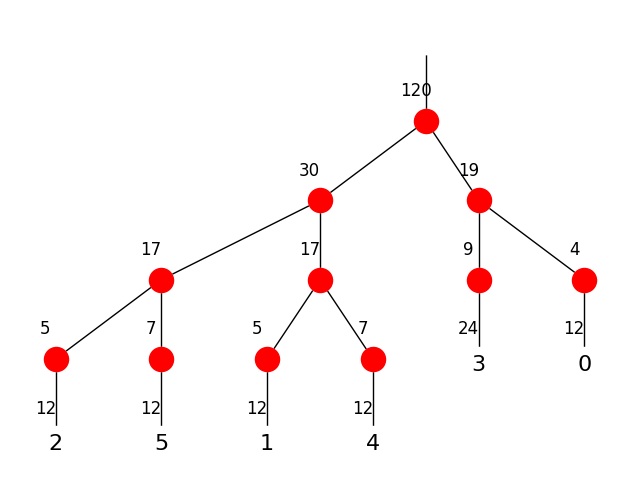
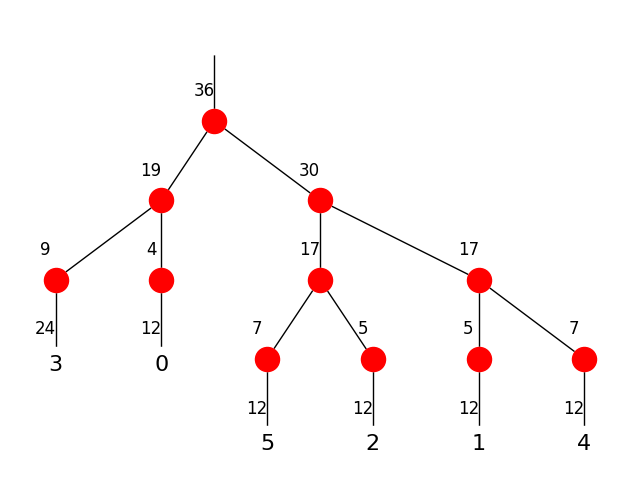
all default files are organized in different folders; file path given to mctdh; bug in self._mctdhConfig

diff --git a/GUI/widgetA.py b/GUI/widgetA.py
@@ -27,13 +27,15 @@ class WidgetA(base, form):
 #        self.getInput()
 
 
-        self._tree = Tree("36")  #Delegation instead of inheritance of Tree
-        self._treeData = self._tree._treeData
+        self._tree = None
+#        self._tree = Tree("36")  #Delegation instead of inheritance of Tree
+#        self._treeData = self._tree._treeData
 
         self._dictHamil = {'CH3': '194', 'NO3': '195'}
         self._dictPES = {'CH3': '100', 'NO3': '101'}
         self._mctdhConfig = 'mctdh.config'
         self._sysTreeFile = 'CH3g1.txt'
+        self._inputFile = 'example.in'
 
         self._startingPath = None
         self._ProjectName = None
@@ -72,15 +74,6 @@ class WidgetA(base, form):
         self.fluxEigenstateRadio.toggled.connect(self.setJob4)
 
 
-        ####TreeView########
-        self.modelTree = SceneGraphModel(self._tree._rootNode0)
-        self.uiTree.setModel(self.modelTree)
-        self.uiTree.expandAll()
-        self.uiTree.resizeColumnToContents(0)
-        self.uiTree.resizeColumnToContents(1)
-#        my_index = self.modelTree.index(0, 0, QtCore.QModelIndex())
-        self.uiTree.clicked.connect(self.changeNode)
-
 
         ####QGraphicsView###
 #        pixmap = QtGui.QPixmap('nx_test.png')
@@ -102,7 +95,18 @@ class WidgetA(base, form):
     def getInput(self, key):
         ###get Attributes#######
         inputFile = self._HamiltonianDir + '/' + key + '/' + 'example.in' 
+        self._inputFile = inputFile
+        
+        filenames = os.walk(self._HamiltonianDir+'/'+str(key)).next()[2]
+        for val in filenames:
+            if 'txt' in val:
+                self._sysTreeFile = val
     
+        self._mctdhConfig = self._HamiltonianDir + '/' + key + '/' + self._mctdhConfig
+        self._sysTreeFile  = self._HamiltonianDir + '/' + key + '/' + self._sysTreeFile
+#        print self._mctdhConfig
+#        print self._sysTreeFile
+
         inobj = InPut(inputFile) #complete path?
         paradict = inobj._paradict
 
@@ -186,22 +190,26 @@ class WidgetA(base, form):
 
     def managefolder(self):
         import os, shutil
-        print self._ProjectName
+#        print self._ProjectName
         os.chdir(self._startingPath+"/"+self._ProjectName) 
-        print os.getcwd()   
+#        print os.getcwd()   
         try:
             shutil.rmtree("tmp") #removes folder
         except Exception:
             pass
         os.makedirs("tmp")
         os.chdir("./tmp")
-        scr_mctdhConfig = self._startingPath + '/' + self._mctdhConfig
-        scr_sysTree = self._startingPath + '/' + self._sysTreeFile
-        print scr_mctdhConfig, scr_sysTree 
-        scr_example = self._startingPath + '/' + 'example.in'
-        shutil.copy2(scr_mctdhConfig, str(os.getcwd()))
-        shutil.copy2(scr_sysTree, str(os.getcwd()))
-        shutil.copy2(scr_example, str(os.getcwd()))
+        #scr_mctdhConfig = self._startingPath + '/' + self._mctdhConfig
+        #scr_sysTree = self._startingPath + '/' + self._sysTreeFile
+        #print scr_mctdhConfig, scr_sysTree 
+        #scr_example = self._startingPath + '/' + 'example.in'
+        shutil.copy2(self._mctdhConfig, str(os.getcwd()))
+        shutil.copy2(self._sysTreeFile, str(os.getcwd()))
+        shutil.copy2(self._inputFile, str(os.getcwd())) #!!!!!!!!!
+
+        #shutil.copy2(scr_mctdhConfig, str(os.getcwd()))
+        #shutil.copy2(scr_sysTree, str(os.getcwd()))
+        #shutil.copy2(scr_example, str(os.getcwd()))
 
     def changeNode(self, my_index):
         if self._SessionName == None:
@@ -209,7 +217,7 @@ class WidgetA(base, form):
         else:
             self.managefolder()
 
-            self.ModelTree = ModelTree()
+            self.ModelTree = ModelTree(self._mctdhConfig, self._sysTreeFile)
             topNode = self.modelTree.getNode2(my_index).child(0) #modelTree from SceneGraphModel
             self._tree.setRootNode(topNode)
 
@@ -217,7 +225,7 @@ class WidgetA(base, form):
             self.output()
 
             ####Pic with MCTDH Code and Networkx####
-            self.ModelTree = ModelTree()
+            self.ModelTree = ModelTree(self._mctdhConfig, self._sysTreeFile)
             self.LogicalNodes = LogicalNodes(self.ModelTree.lay_matr_mode) #object
             self.View = View(self.ModelTree.label_mode, self.ModelTree.nodes_spf) #object
             self.View.Display(self.LogicalNodes.G) #View method Display() generated .png file
@@ -237,7 +245,7 @@ class WidgetA(base, form):
 #        print self._ProjectName
         scr = str(os.getcwd()) + "/tmp"
         dest = self._startingPath+ "/" + self._ProjectName + "/" + str(self._SessionName)
-        print scr, dest
+        #print scr, dest
         try:
             shutil.rmtree(dest) #removes folder
         except Exception:
@@ -248,11 +256,10 @@ class WidgetA(base, form):
     def saveProject(self):
         if self._SessionName == None:
                 self.showdialog()
-                sys.exit()
         else:
             root, directories, filenames = os.walk(".").next()
             if self._SessionName in directories:
-                print "overwrite stuff?"
+                #print "overwrite stuff?"
                 self.showdialog2()
                 if 'Yes' in self._messagebut:
                     self.managefolder()
@@ -324,20 +331,30 @@ class WidgetA(base, form):
 
 
     def on_item_select1(self, item):
-        key = item.data().toString()
+        key = str(item.data().toString())
         self.getInput(key)
         self._hamiltonian = self._dictHamil[str(key)]
-        print self._hamiltonian
+        #print self._hamiltonian
+        
+        ####TreeView########
+        self._tree = Tree(self._mctdhConfig, self._sysTreeFile)
+        self.modelTree = SceneGraphModel(self._tree._rootNode0)
+        self.uiTree.setModel(self.modelTree)
+        self.uiTree.expandAll()
+        self.uiTree.resizeColumnToContents(0)
+        self.uiTree.resizeColumnToContents(1)
+#        my_index = self.modelTree.index(0, 0, QtCore.QModelIndex())
+        self.uiTree.clicked.connect(self.changeNode)
 
     def on_item_select2(self, item):
         key = item.data().toString()
         self._potential = self._dictPES[str(key)]
-        print self._potential
+        #print self._potential
 
     def output(self):
         """Class OutPut takes all parameters and saves them in File by creating
      the object of this class"""
-        print os.getcwd()
+       # print os.getcwd()
         self.makeParaDict()
         outobj = OutPut(self._tree, self._paradict)
         outobj.savefile()

diff --git a/GUI/Node.py b/GUI/Node.py
@@ -1,7 +1,7 @@
 from LogicalNodes import LogicalNodes
 from ModelTree import ModelTree
 import networkx as nx
-import re
+import re, sys
 
 class Parameters(object):
     def __init__(self):
@@ -149,33 +149,16 @@ class OutPut(Parameters):
 
 class Tree(object):
 #    def __init__(self):
-    def __init__(self, startSPF):
+    def __init__(self, mctdhConfig, sys_file):
         self._rootNode0 = Node("TOP")
         self._dictNodes = {}
-        model = ModelTree()
+        model = ModelTree(mctdhConfig, sys_file)
         logical = LogicalNodes(model.lay_matr_mode)
         self._G = logical.G
         self._elder = None
         self.getElder()
-#        self._rootNode = Node(str(startSPF), self._rootNode0)
         self.addNode(self._elder, str(self._G.nodes[self._elder]['SPF']), self._rootNode0)
         self.readTree()
-#        self._childNode0 = Node("19", self._rootNode)
-#        self._childNode1 = Node("30", self._rootNode)
-#        self._childNode2 = Node("9", self._childNode0)
-#        self._childNode3 = Node("4", self._childNode0)
-#        self._childNode4 = Node("17", self._childNode1)
-#        self._childNode5 = Node("17", self._childNode1)
-#        self._childNode6 = BottomNode("24", self._childNode2, "3")
-#        self._childNode7 = BottomNode("12", self._childNode3, "0")
-#        self._childNode8 = Node("5", self._childNode4)
-#        self._childNode9 = Node("7", self._childNode4)
-#        self._childNode10 = Node("5", self._childNode5)
-#        self._childNode11 = Node("7", self._childNode5)
-#        self._childNode13 = BottomNode("12", self._childNode8, "1")
-#        self._childNode12 = BottomNode("12", self._childNode9, "4")
-#        self._childNode14 = BottomNode("12", self._childNode10, "2")
-#        self._childNode15 = BottomNode("12", self._childNode11, "5")
 
         self._rootNode = self._dictNodes[10]
         self._treeData = self._dictNodes[10].log()

diff --git a/GUI/main.py b/GUI/main.py
@@ -1,6 +1,7 @@
 from PyQt4 import QtGui, uic, QtCore
 import sys, os, shutil
 from widgetA import WidgetA
+from Node import Tree
 from InputPro import ListModel, ListModel2
 from dialogC import DialogC
 
@@ -72,7 +73,7 @@ class Main(base, form):
         self.showdialog(key)
         if 'OK' in self._messageBu:
             self._model2.removeRows(rowNum,1, self._itemIndex2)
-            print os.getcwd(), 'before rmtree'
+            #print os.getcwd(), 'before rmtree'
             self._newpath
             shutil.rmtree(self._newpath)
 

diff --git a/GUI/ModelTree.py b/GUI/ModelTree.py
@@ -1,4 +1,5 @@
 import mctdh
+import sys
 
 class ModelTree(object):
     def __init__(self, config_file='mctdh.config', sys_file='CH3g1.txt'):
@@ -13,6 +14,7 @@ class ModelTree(object):
         self.nodes_spf = {}
 
         self.config = mctdh.controlParameters()
+        print self.config_file, 'from ModelTree'
         self.config.initialize(self.config_file)
         self.basis = mctdh.MctdhBasis()
         self.basis.initialize(self.sys_file, self.config)
